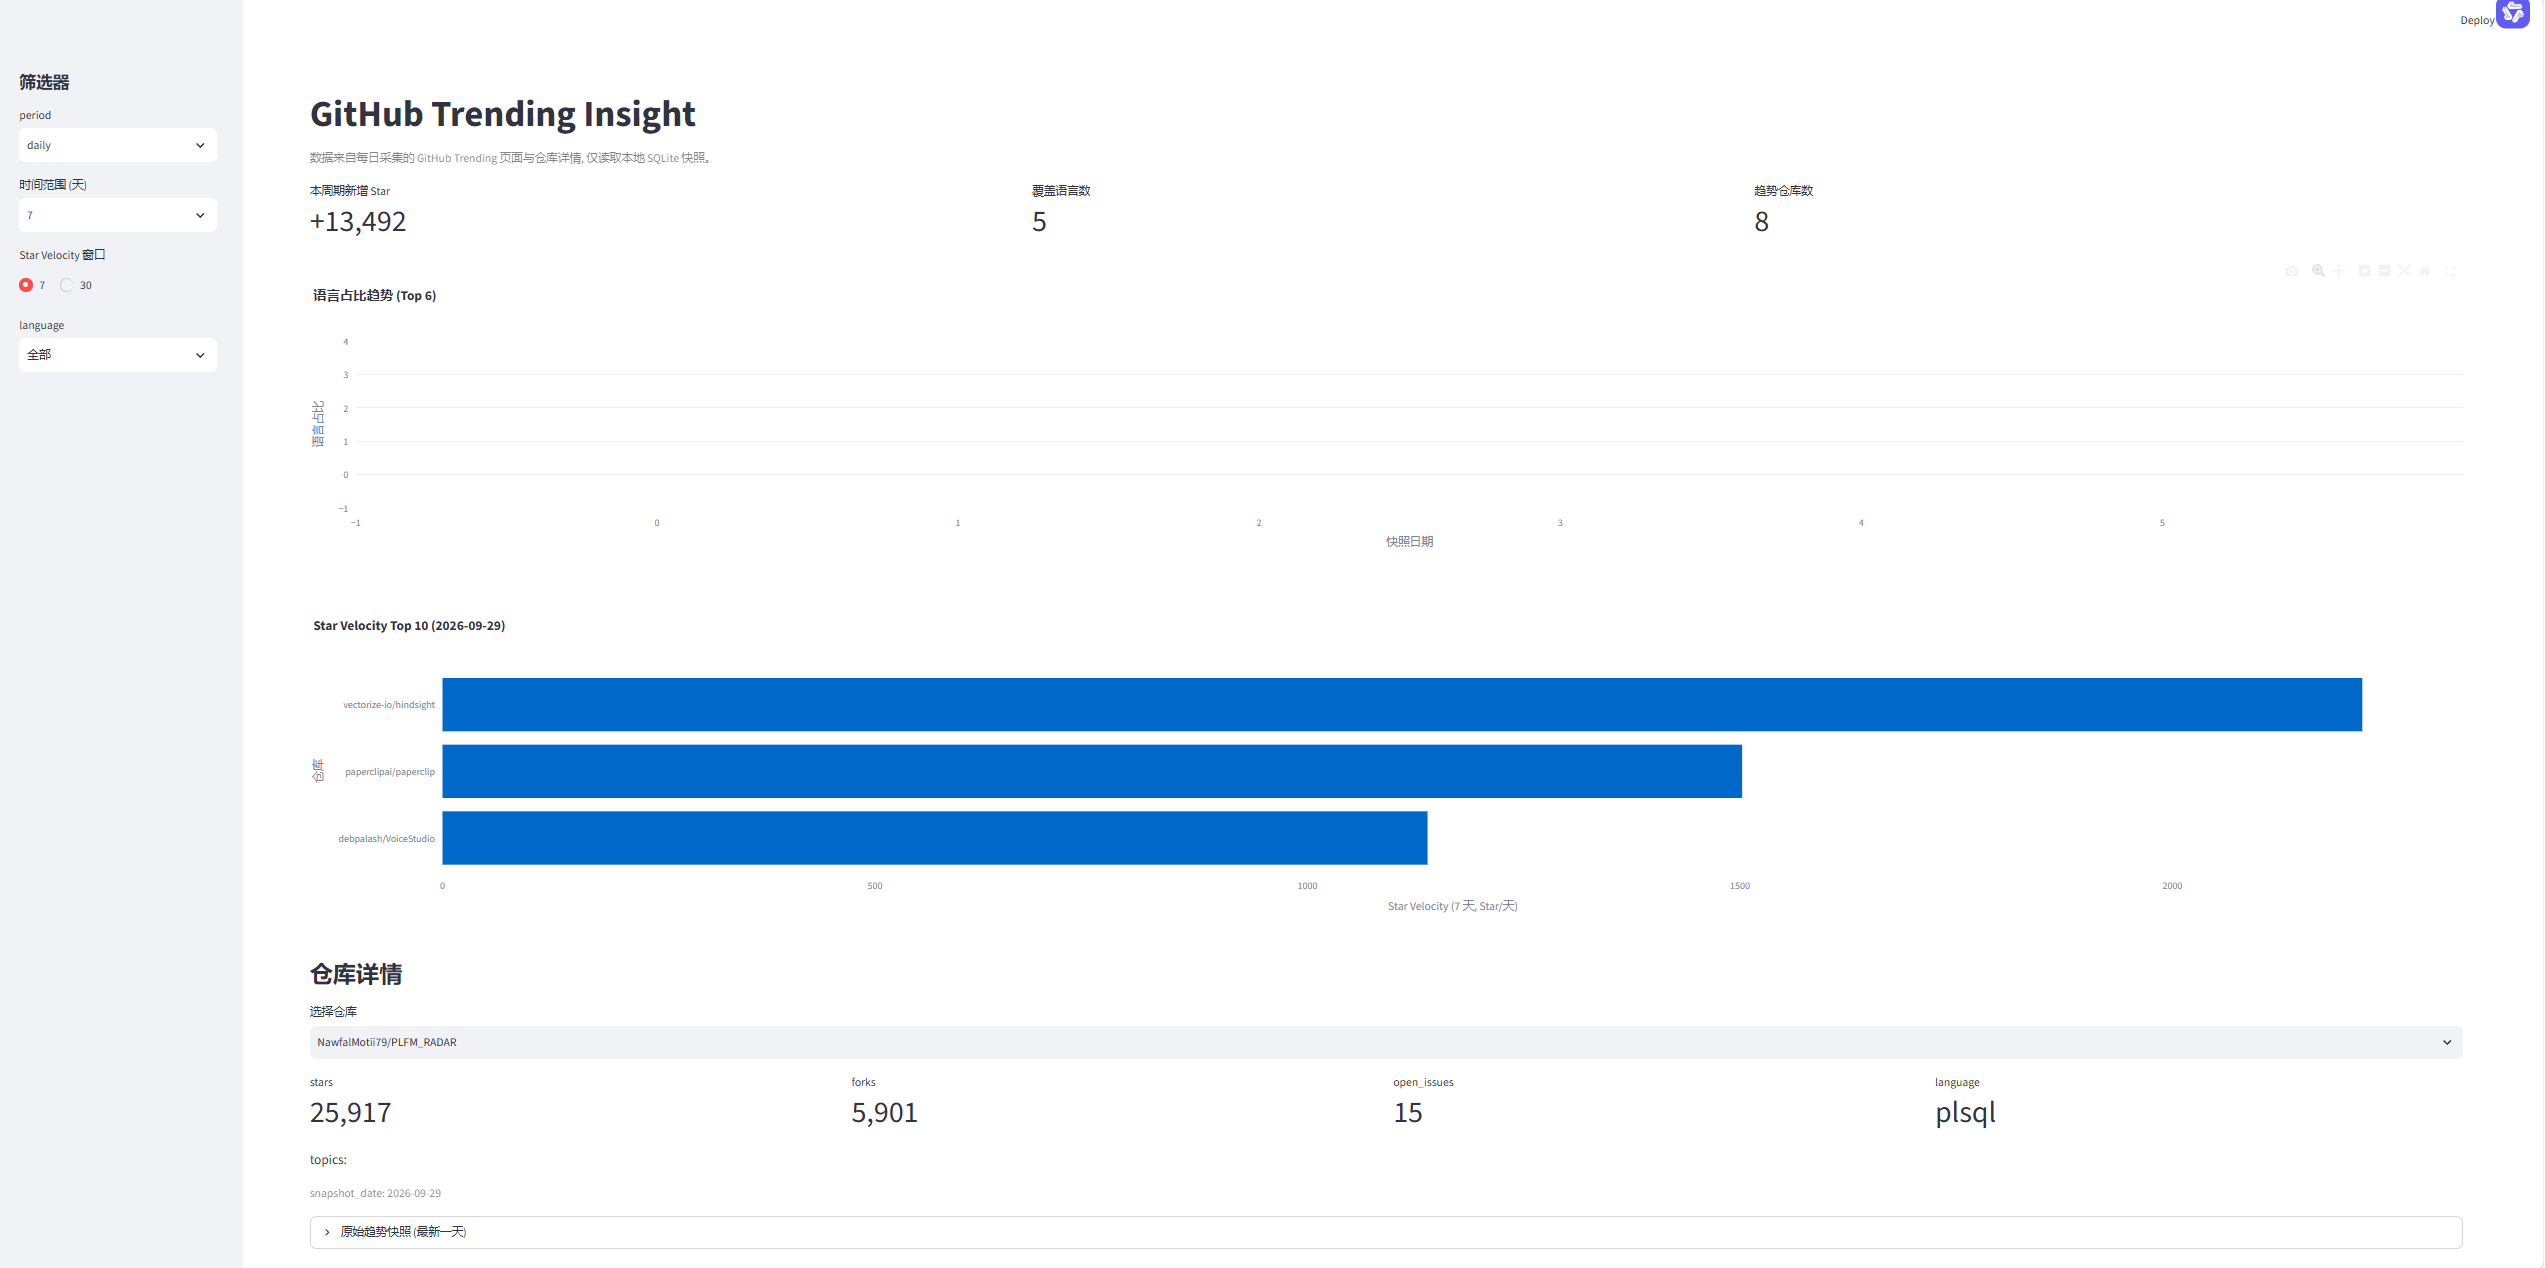
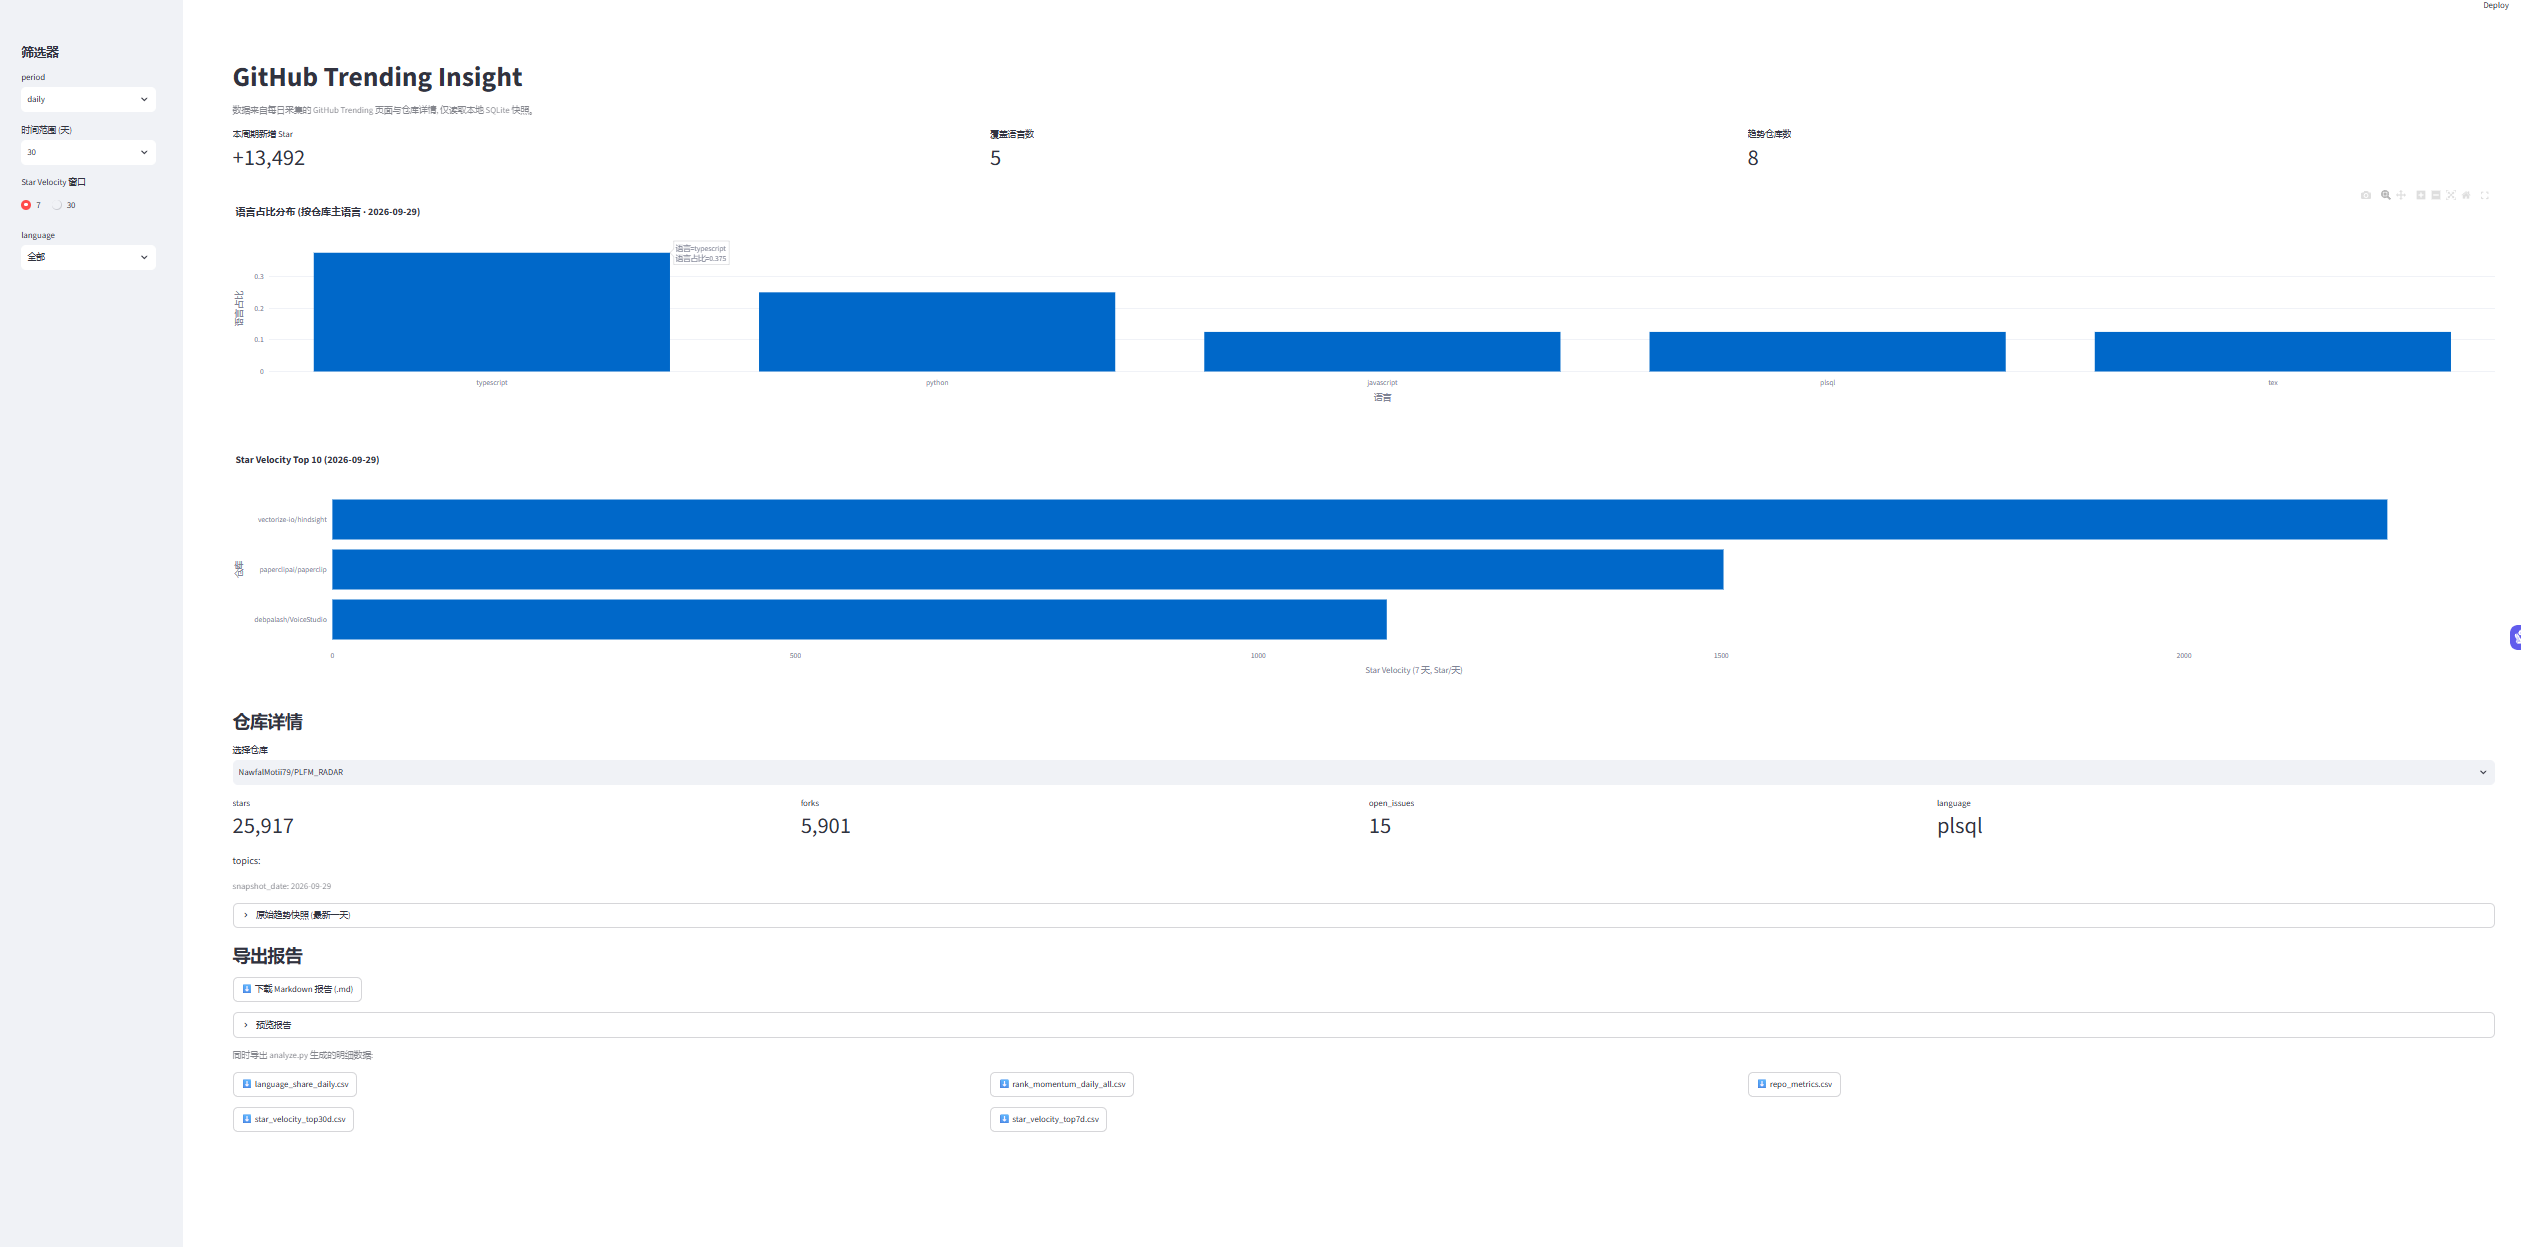
chore: add 2026-09-29 snapshot data and refresh dashboard screenshot

diff --git a/data/processed/trending_report_daily.md b/data/processed/trending_report_daily.md
@@ -1,0 +1,108 @@
+# GitHub Trending 洞察报告 · 2026-09-29
+
+- 生成时间 (UTC): `2026-09-29T08:32:48Z`
+- 主榜单 period: `daily` · language 筛选: 全部
+- 数据源: [daily](https://github.com/trending?since=daily) · [weekly](https://github.com/trending?since=weekly) · [monthly](https://github.com/trending?since=monthly)
+- snapshot_date: `2026-09-29` · 仓库数: 8
+
+## 1. 概览
+
+| 指标 | 值 |
+|---|---|
+| 趋势仓库数 | 8 |
+| 榜单 Star 合计 | 297,960 |
+| 本周期新增 Star | +13,492 |
+| 覆盖语言数 | 5 |
+| 有 7 天速度的仓库数 | 3 |
+
+## 2. Star Velocity Top 10 (近 7 天)
+
+| # | 仓库 | 语言 | stars | 本周期新增 | star_velocity_7d | star_velocity_30d | rank_momentum |
+|---|---|---|---|---|---|---|---|
+| 1 | [vectorize-io/hindsight](https://github.com/vectorize-io/hindsight) | python | 41,662 | +4,561 | 2,219.6 | — | — |
+| 2 | [paperclipai/paperclip](https://github.com/paperclipai/paperclip) | typescript | 93,558 | +3,197 | 1,502.6 | — | — |
+| 3 | [debpalash/VoiceStudio](https://github.com/debpalash/VoiceStudio) | python | 45,532 | +3,221 | 1,138.9 | 1,020.4 | — |
+
+## 3. 排名动量 (rank_momentum)
+
+> 需要至少两个 `snapshot_date` 的同 period + language 快照才能算排名动量 (当前 1 天)。
+
+## 4. 语言占比 (按仓库主语言)
+
+| language | 仓库数 | 占比 |
+|---|---|---|
+| typescript | 3 | 37.5% |
+| python | 2 | 25.0% |
+| javascript | 1 | 12.5% |
+| plsql | 1 | 12.5% |
+| tex | 1 | 12.5% |
+
+## 5. 仓库明细
+
+### 1. [debpalash/VoiceStudio](https://github.com/debpalash/VoiceStudio)
+
+- 描述: VoiceStudio is the open-source, fully-local ElevenLabs alternative — voice cloning, voice design, video dubbing, dictation, transcription & audiobook creation in 646 languages.
+- 指标: stars 45,532 · forks 5,196 · open_issues 51 · language python
+- 本周期新增 (daily): +3,221 Star
+- topics: `ai`, `audiobook`, `cuda`, `dubbing`, `elevenlabs-alternative`, `huggingface`, `local-first`, `mlx`, `omnivoice-studio`, `speech-to-text`, `tauri`, `text-to-speech`, `transcription`, `translate`, `tts`, `voice-ai`, `voice-cloning`, `voice-generation`, `voicestudio`, `workflow`
+
+### 2. [paperclipai/paperclip](https://github.com/paperclipai/paperclip)
+
+- 描述: The open-source app everyone uses to manage agents at work
+- 指标: stars 93,558 · forks 15,946 · open_issues 6,022 · language typescript
+- 本周期新增 (daily): +3,197 Star
+- topics: —
+
+### 3. [vectorize-io/hindsight](https://github.com/vectorize-io/hindsight)
+
+- 描述: Hindsight: Agent Memory That Learns
+- 指标: stars 41,662 · forks 5,597 · open_issues 189 · language python
+- 本周期新增 (daily): +4,561 Star
+- topics: `agentic-ai`, `agents`, `ai-memory`, `memory`
+
+### 4. [NawfalMotii79/PLFM_RADAR](https://github.com/NawfalMotii79/PLFM_RADAR)
+
+- 描述: Open-source, low-cost 10.5 GHz PLFM phased array RADAR system
+- 指标: stars 25,916 · forks 5,901 · open_issues 15 · language plsql
+- 本周期新增 (daily): +158 Star
+- topics: —
+
+### 5. [cs341-illinois/coursebook](https://github.com/cs341-illinois/coursebook)
+
+- 描述: Open Source Introductory Systems Programming Textbook for the University of Illinois
+- 指标: stars 2,681 · forks 247 · open_issues 46 · language tex
+- 本周期新增 (daily): +195 Star
+- topics: `awesome`, `c`, `latex`, `linux`, `posix`, `system-programming`, `wikibook`
+
+### 6. [byoungd/up](https://github.com/byoungd/up)
+
+- 描述: An advanced guide which might benefit you a lot 🎉 . 韩先凯的人生进阶指南 人生进阶指南 离谱的人生 人生进阶 AI学习 AI指南 韩先凯的AI学习指南 英语学习指南/英语学习教程/英语学习/学英语
+- 指标: stars 65,154 · forks 6,545 · open_issues 32 · language javascript
+- 本周期新增 (daily): +327 Star
+- topics: `chinese`, `english-learning`, `tutorial`
+
+### 7. [mvschwarz/openrig](https://github.com/mvschwarz/openrig)
+
+- 描述: Multi-agent harness that runs Claude Code and Codex together as one system
+- 指标: stars 1,960 · forks 147 · open_issues 67 · language typescript
+- 本周期新增 (daily): +734 Star
+- topics: `agent-harness`, `agent-orchestration`, `agent-skills`, `ai-coding`, `claude-code`, `cli`, `codex-cli`, `multi-agent`, `multi-agent-systems`, `tmux`, `typescript`
+
+### 8. [dream-num/univer](https://github.com/dream-num/univer)
+
+- 描述: The Office Harness for AI Agents — Spreadsheets, Docs, Slides, Canvas, Relational Tables, and PDF in one runtime.
+- 指标: stars 21,497 · forks 1,818 · open_issues 142 · language typescript
+- 本周期新增 (daily): +1,099 Star
+- topics: `board`, `collaboration`, `data-table`, `doc`, `docx`, `excel`, `grid`, `pdf`, `ppt`, `pptx`, `presentation`, `sdk`, `sheet`, `slides`, `spreadsheet`, `table`, `word`, `wordprocessor`, `xlsx`
+
+## 6. 口径与方法
+
+- Star Velocity 优先用 weekly/monthly 榜单的区间增量 (`stars_in_period / 窗口天数`), 缺失时回退到历史快照差分 (`stars(T) - stars(T-n 天)) / n`。
+- Rank Momentum = 前一 `snapshot_date` 的 `rank` - 当日 `rank`, 正数表示排名上升。
+- 缺失值显示为 `—`, 不补 0; 历史快照只追加, 不覆盖。
+- 语言占比按仓库主语言 (`repo_snapshots.language`) 统计; 未取到主语言的仓库不计入分子; CSV `language_share_daily.csv` 用的是榜单筛选口径。
+
+## 7. 相关产物
+
+- `repo_metrics.csv` · `language_share_daily.csv` · `rank_momentum_daily_all.csv` · `star_velocity_top7d.csv` · `star_velocity_top30d.csv`
+- 仪表板: `uv run streamlit run src/trends/dashboard/app.py`
